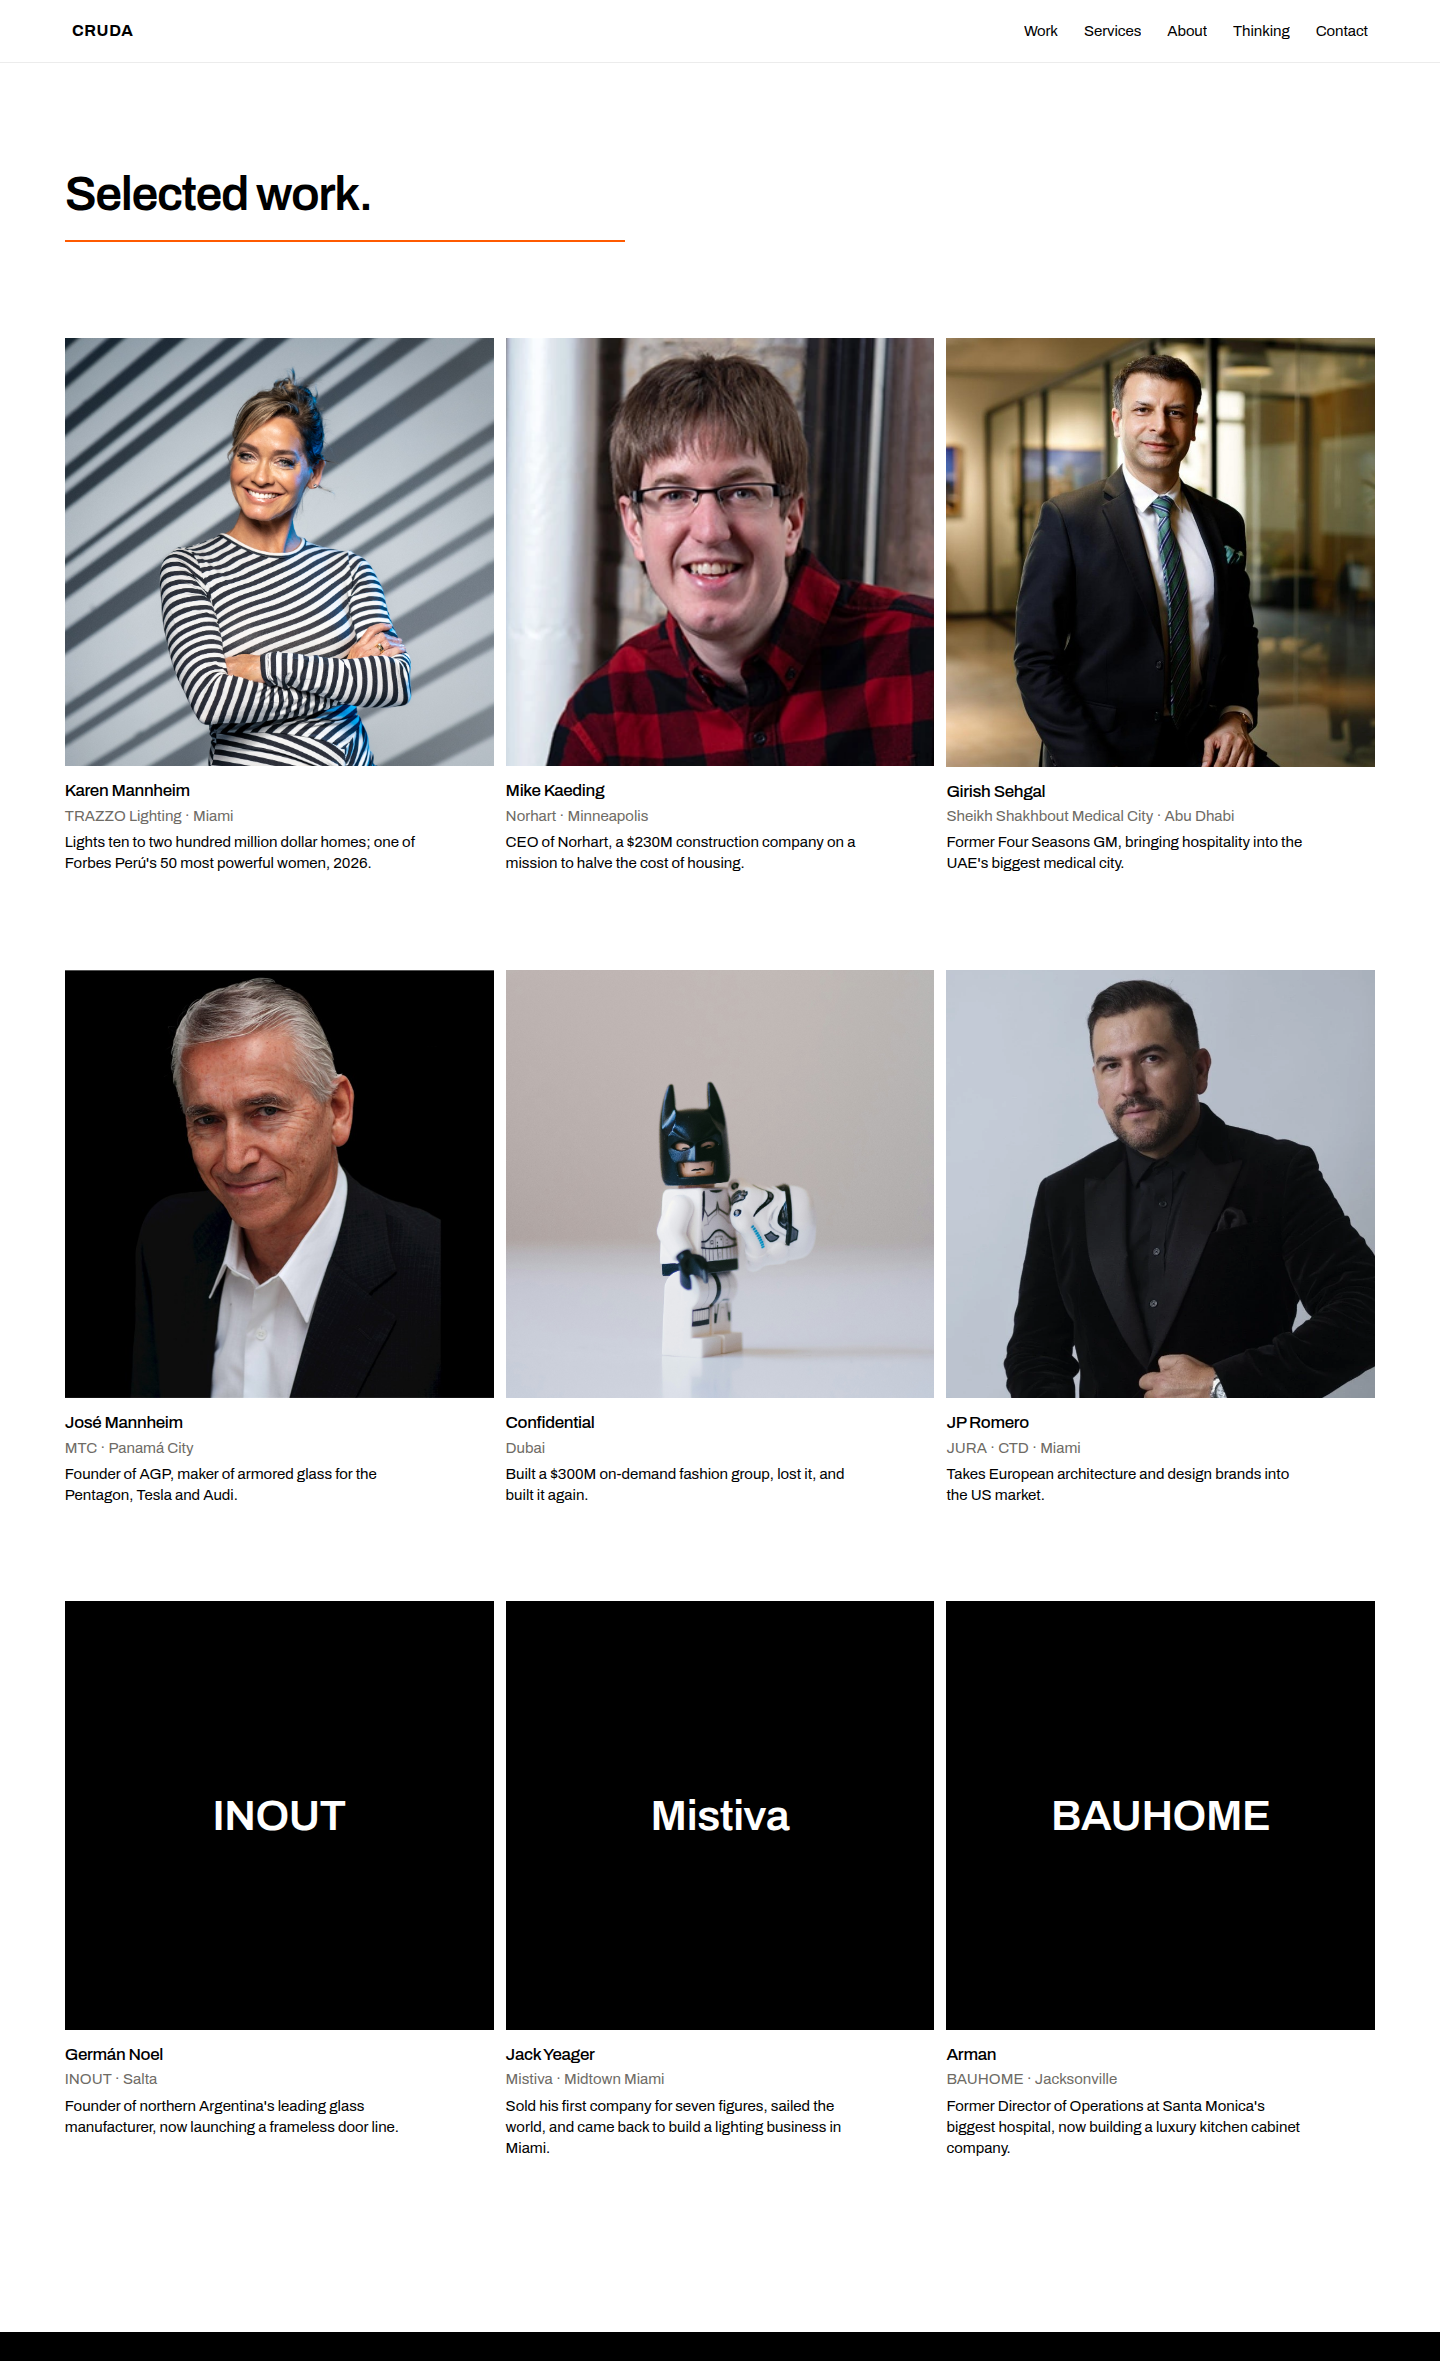
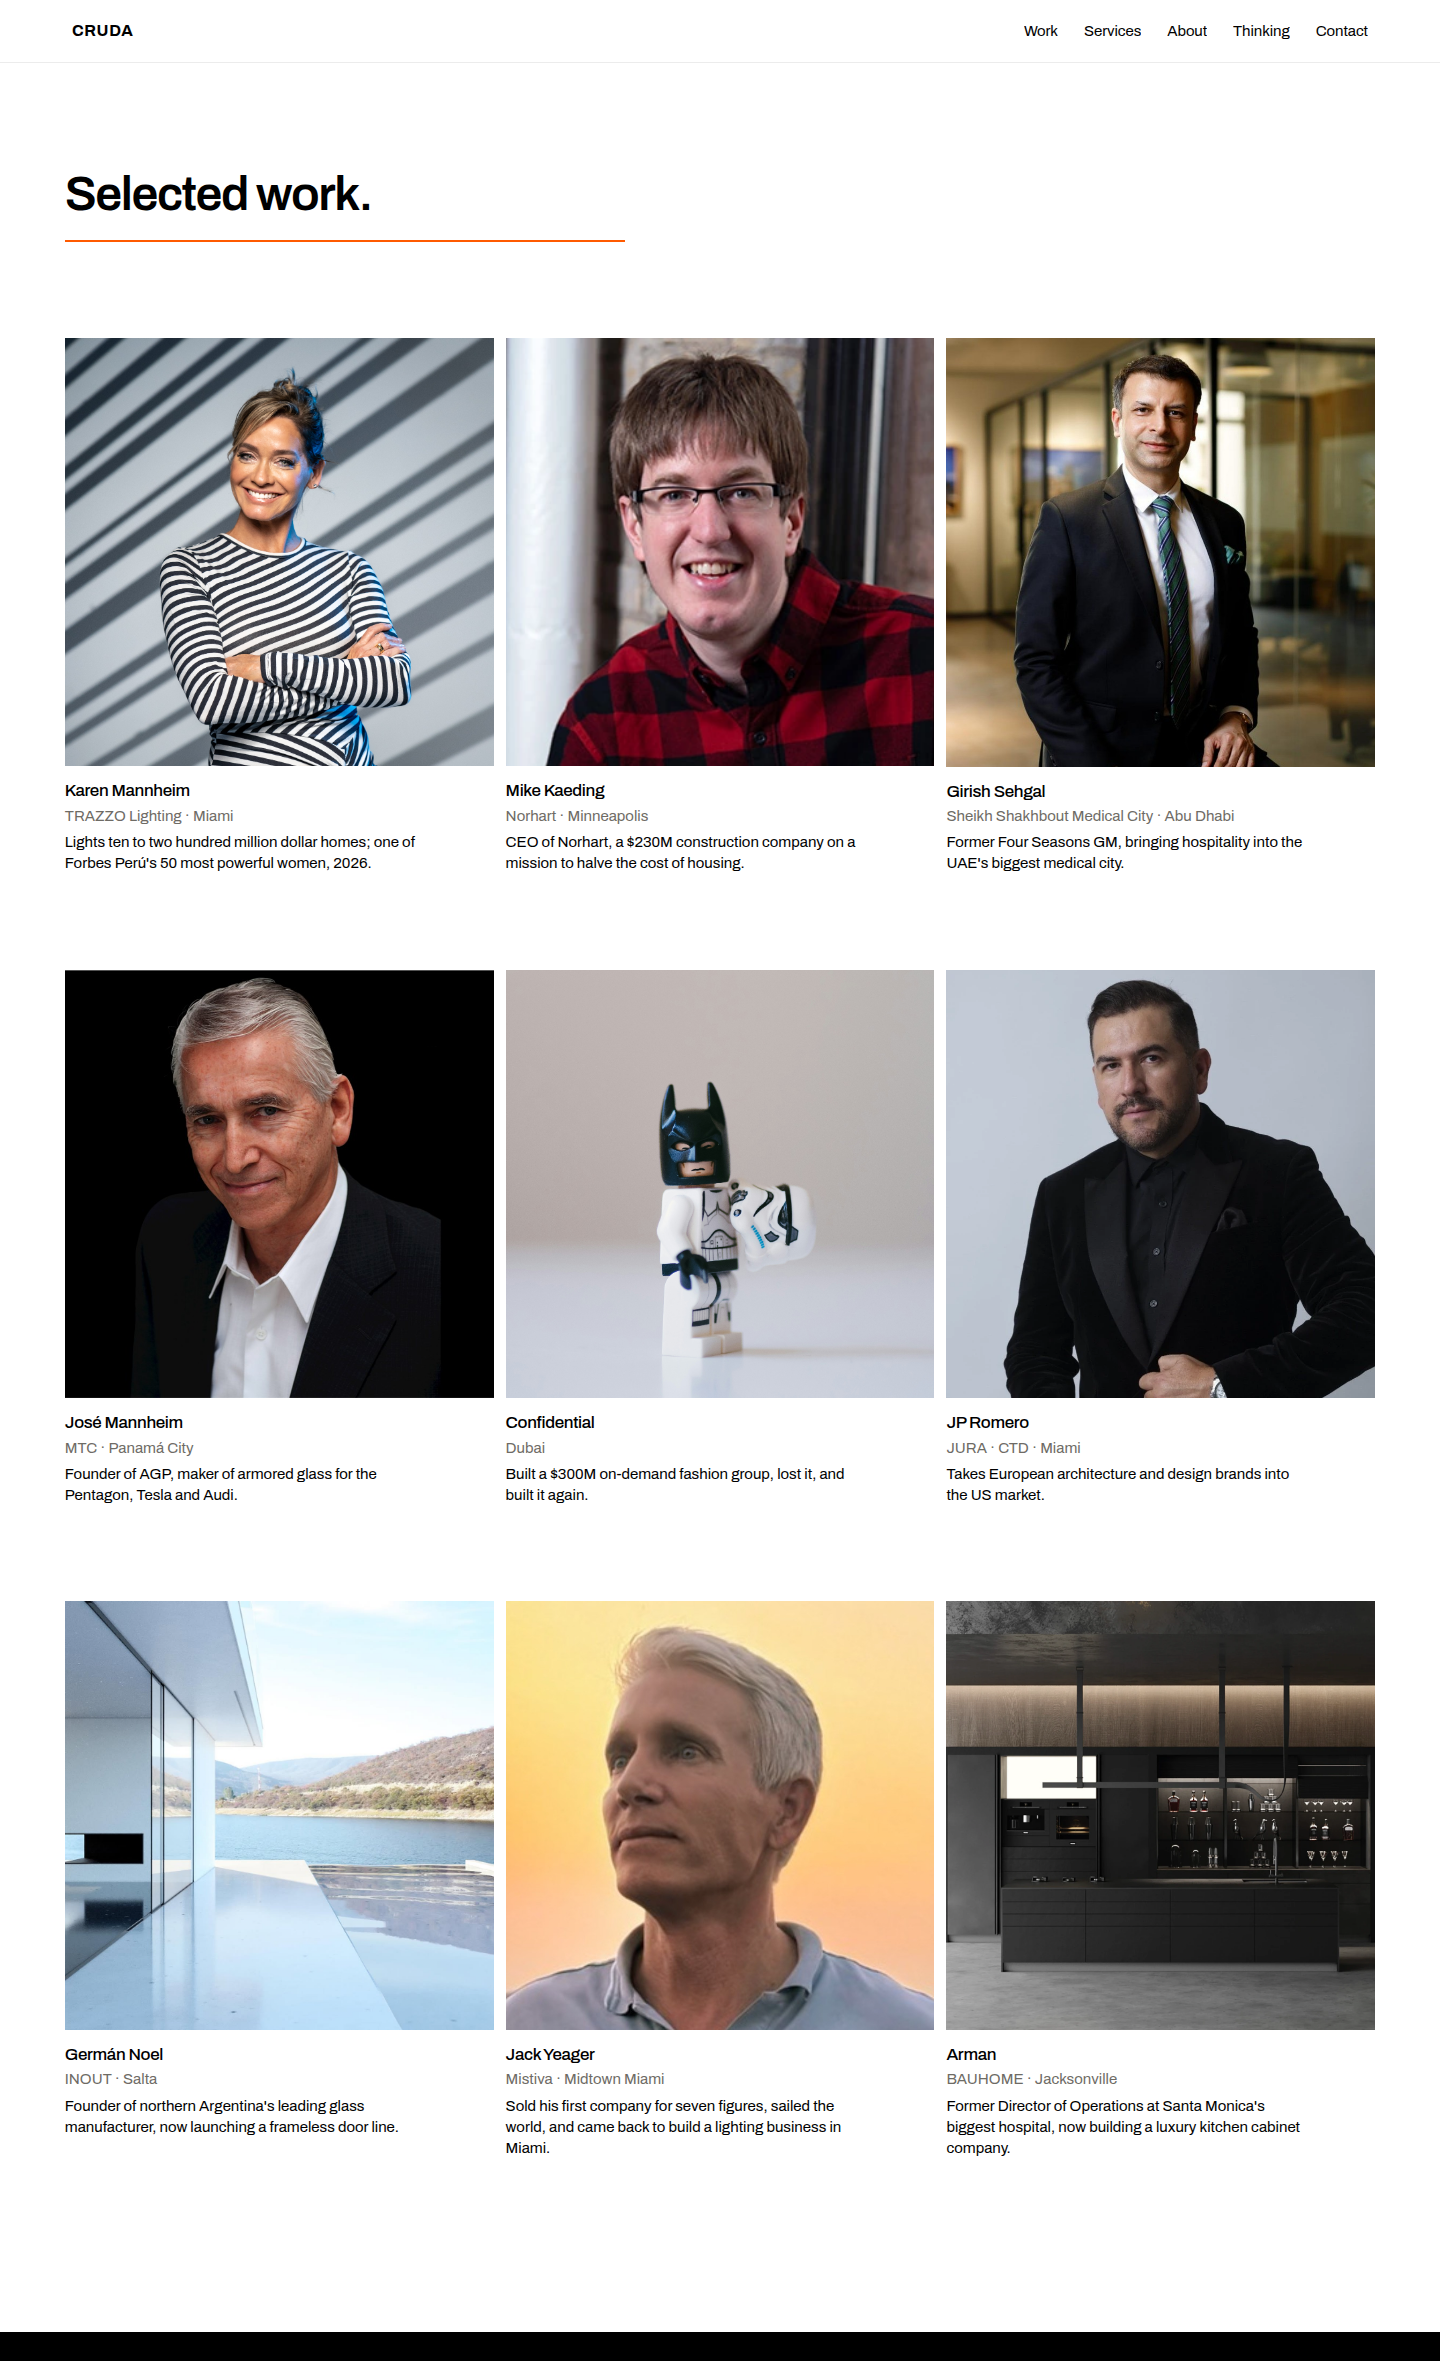
F21 · Jack Yeager · retrato reemplaza la portada tipográfica
Fran aprueba /jack-yeager.jpeg (54 KB · 800×800, ya cuadrada).
Reemplaza el cover 'Mistiva' en la card de Jack.
object-position center 20% (según spec Fran).

Con esto quedan 9 fotos reales en la grilla, cero portadas
tipográficas. Capturas 1440 (sección completa) + 390 refrescadas
+ crop de la card de Jack.

Claude-Session: https://claude.ai/code/session_01JYAFff2nd8GS6Ghghu76xP

Changed region(s): [[0.0312, 0.6802, 0.9688, 0.8657]]

diff --git a/src/components/home/SelectedWork.tsx b/src/components/home/SelectedWork.tsx
@@ -118,7 +118,11 @@ const CARDS: Card[] = [
     description:
       'Sold his first company for seven figures, sailed the world, and came back to build a lighting business in Miami.',
     service: ['TRANSLATED', 'TRANSMISSION'],
-    coverText: 'Mistiva',
+    /* F21 · retrato aprobado por Fran (22-sep). Fuente 800×800 ya
+       cuadrada; object-position center 20% mantiene el criterio
+       del spec (cara en tercio superior si Fran cambia la fuente). */
+    imageSrc: '/jack-yeager.jpeg',
+    objectPosition: 'center 20%',
   },
   {
     name: 'Arman',
